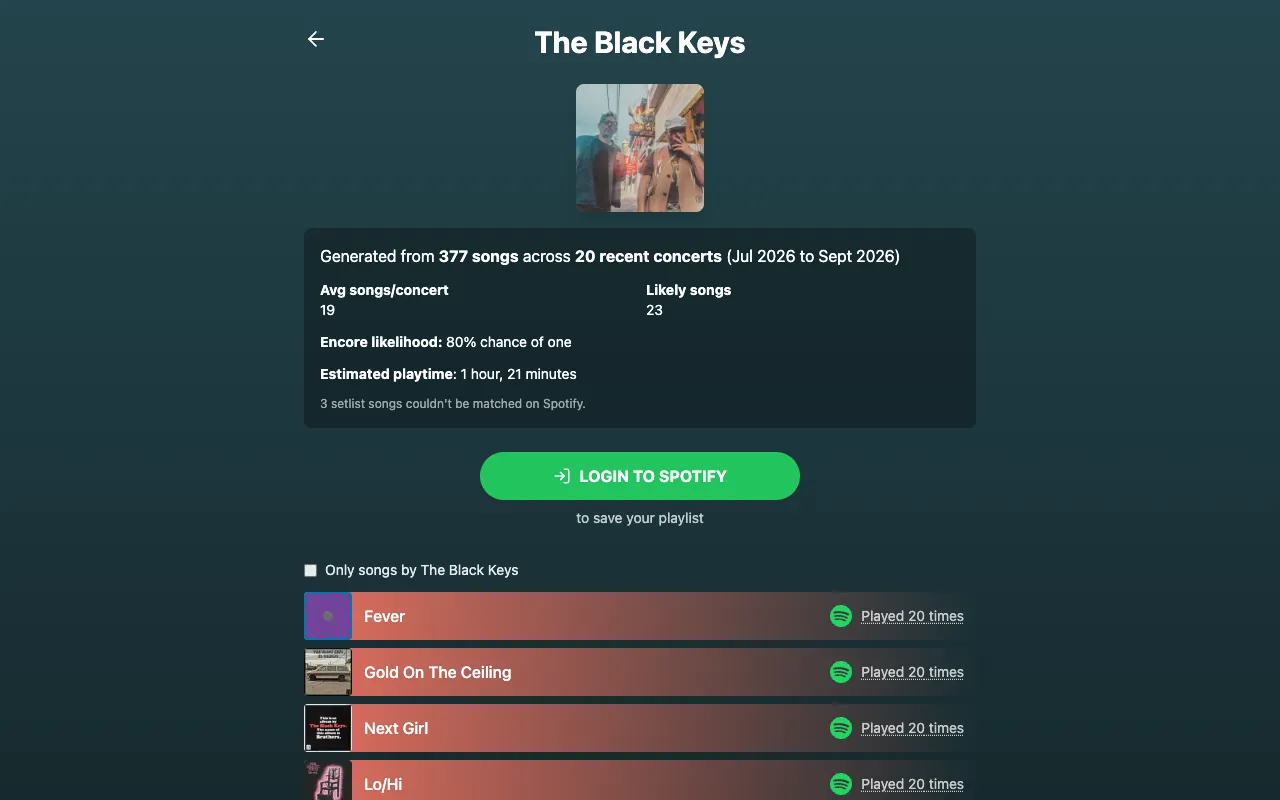
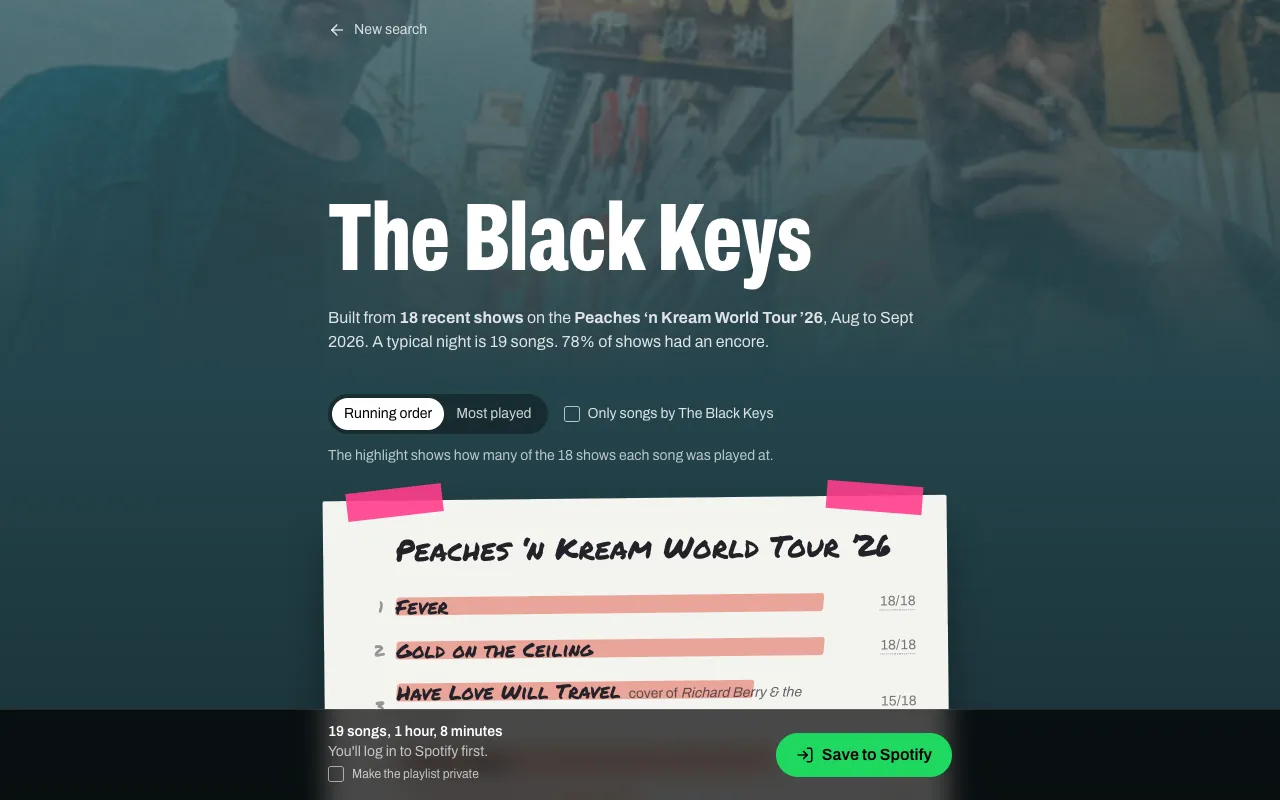
chore: update screenshots

diff --git a/data/projects.ts b/data/projects.ts
@@ -71,7 +71,7 @@ export const projects = [
 		title: "GigPlayList",
 		description: [
 			"Predicts the setlist for an upcoming gig and builds you a Spotify playlist.",
-			"Mashes up recent setlists and track data from third-party music APIs to work out what the band will play.",
+			"Mashes up recent setlists from third-party music APIs into a predicted running order, showing how often each song gets played.",
 		],
 		screenshot: "/images/projects/screens/gigplaylist.webp",
 		links: {
@@ -186,14 +186,15 @@ export const tinyProjects = [
 	{
 		title: "ZoomMEME",
 		description: [
-			"Drag-and-drop zoom-in meme generator. Does exactly what it says.",
+			"Pick a spot in any photo and get a zoom-in meme, as a stacked image or a GIF.",
+			"Runs entirely in the browser: canvas for the frames, gifenc for the animation, and your photo never leaves your device.",
 		],
 		screenshot: "/images/projects/screens/zoommeme.webp",
 		links: {
 			Website: "https://zoomme.me",
 			Github: "https://github.com/sirlisko/zoommeme",
 		},
-		tech: ["Vanilla JS", "PWA"],
+		tech: ["Vanilla JS", "Canvas", "GIF encoding", "Vite", "PWA"],
 	},
 	{
 		title: "Martellone Alexa Skill",
